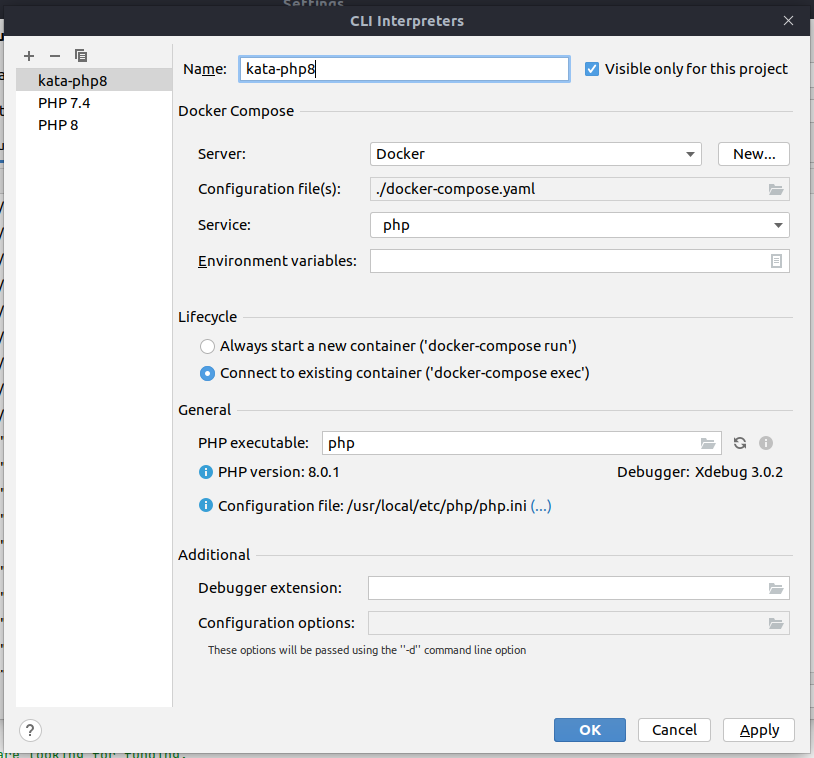
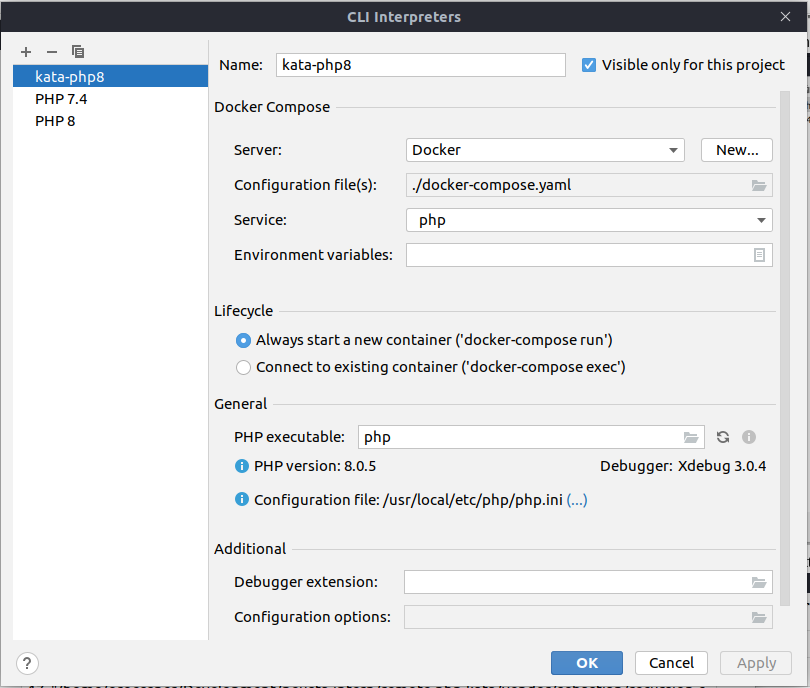
Don't use Connect to existing container ('docker-compose exec').

Changed region(s): [[0.0, 0.0, 1.0, 1.0]]

diff --git a/README.md b/README.md
@@ -32,9 +32,9 @@
 * File -> Settings -> Languages & Frameworks -> PHP -> Add Docker-Compose interpreter
 
   ![File - Settings - Languages & Frameworks - PHP](.manual/remote-interpreter-docker-compose.png)
-
-* Choose "Connect to existing container ('docker-compose exec')", which is a lot faster than spinning up a new container each time.
-
+  
+  Result should look like this:
+  
   ![PHP 8 Docker-Compose interpreter](.manual/interpreter-v8-full.png)
 
 * File | Settings | Languages & Frameworks | PHP should look like this:
